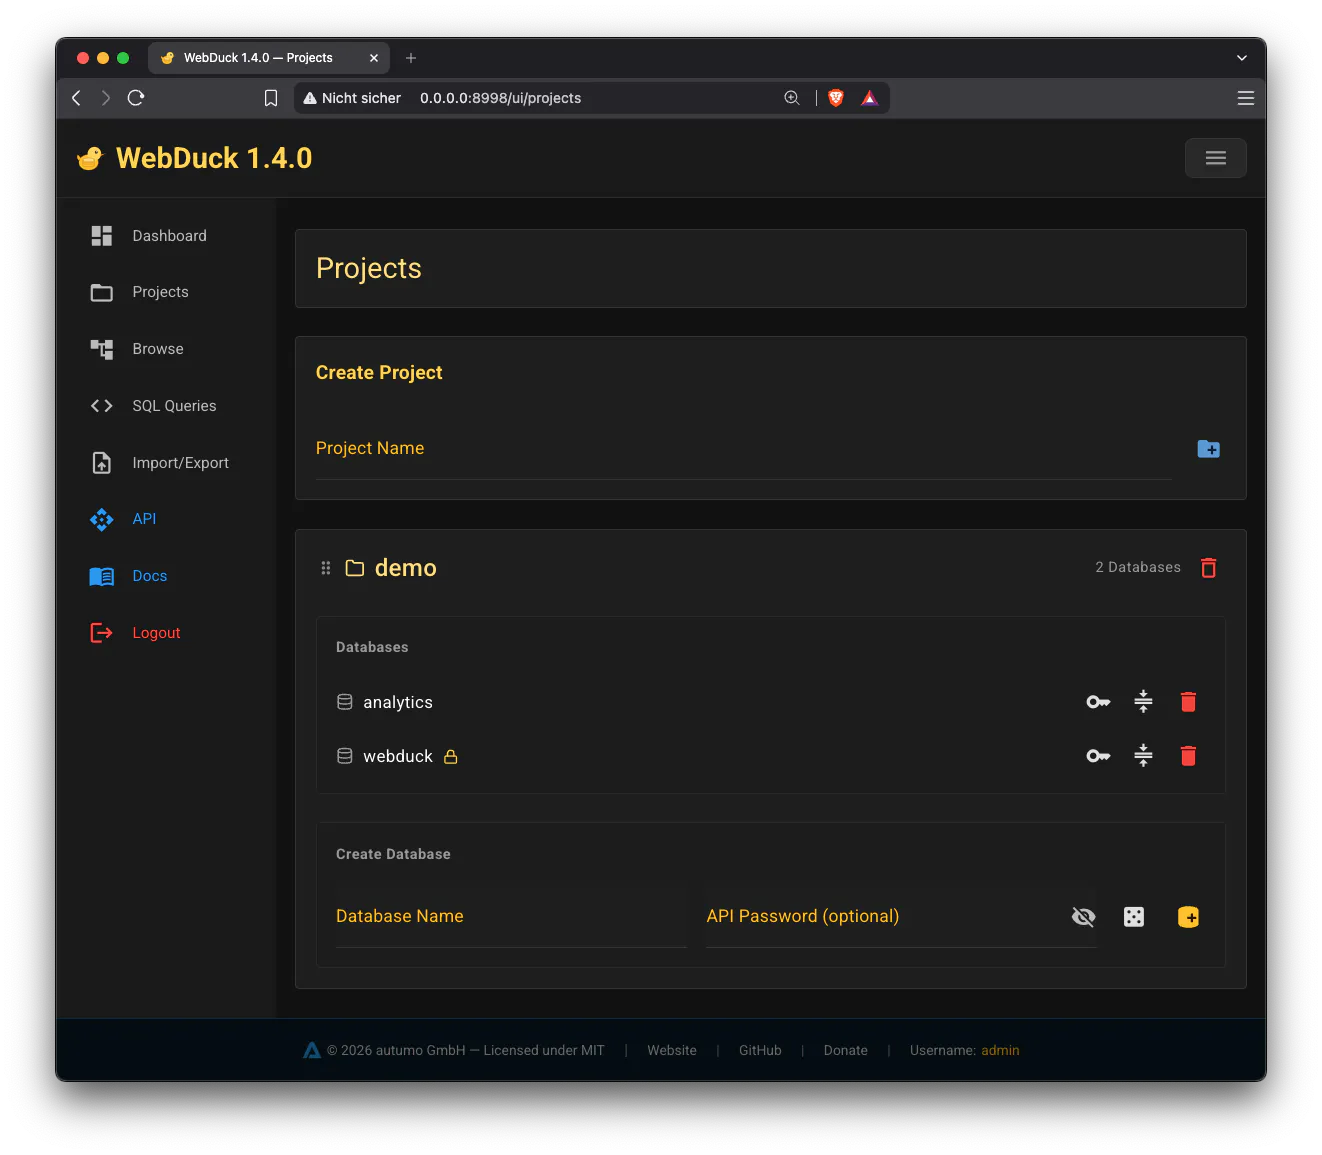
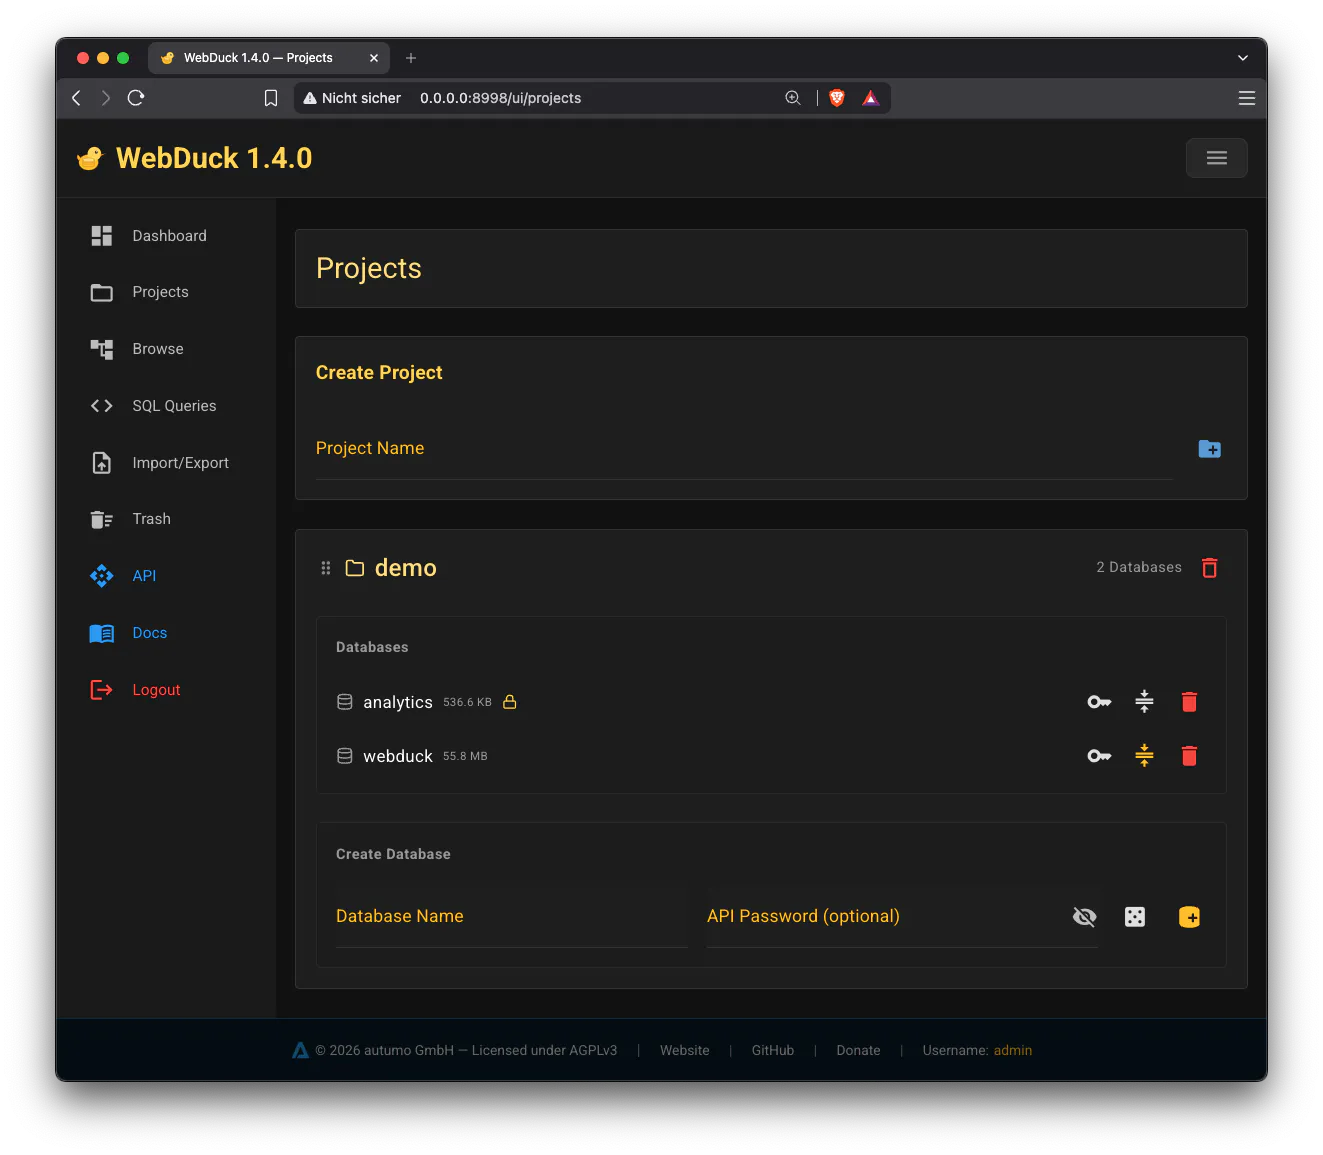
v1.4.0
- Projects/DBs: Remove password context menu
- New Screenshots

diff --git a/src/webduck/pages/projects.py b/src/webduck/pages/projects.py
@@ -329,22 +329,84 @@ def register():
                                                 "font-size: 0.75em;"
                                             )
                                         # Show a lock icon if this database has an API password set.
+                                        # Left-click opens a menu with the option to remove the
+                                        # password again (backed by a security confirmation).
                                         _pa = ctx.project_auth or ProjectAuth(ctx.storage.data_dir)
                                         has_pw = _pa.has_database_password(
                                             project, db_name
                                         )
                                         if has_pw:
-                                            ui.html(
-                                                '<svg width="14" height="14" viewBox="0 0 24 24" '
-                                                'fill="none" stroke="#FFD54F" stroke-width="2" '
-                                                'stroke-linecap="round" stroke-linejoin="round" '
-                                                'style="vertical-align: middle;">'
-                                                '<rect x="3" y="11" width="18" height="11" '
-                                                'rx="2" ry="2"/>'
-                                                '<path d="M7 11V7a5 5 0 0 1 10 0v4"/></svg>'
-                                            ).tooltip(_("password_set")).props(
-                                                "tooltip-position=top"
-                                            )
+                                            async def remove_pw_confirm(
+                                                p=project, d=db_name
+                                            ):
+                                                with ui.dialog() as dlg, ui.card().classes(
+                                                    "items-center gap-4"
+                                                ).style(
+                                                    "background: #1E1E1E; border-radius: 12px; "
+                                                    "padding: 24px 32px;"
+                                                ):
+                                                    ui.label(
+                                                        _("confirm_remove_password").format(d)
+                                                    ).style(f"color: {TEXT_SOFT}")
+                                                    with ui.row().classes("gap-2"):
+                                                        ui.button(
+                                                            _("cancel"),
+                                                            on_click=dlg.close,
+                                                        ).props("outline color=grey").classes(
+                                                            "border-button"
+                                                        )
+
+                                                        def do_remove():
+                                                            dlg.close()
+                                                            pa = (
+                                                                ctx.project_auth
+                                                                or ProjectAuth(
+                                                                    ctx.storage.data_dir
+                                                                )
+                                                            )
+                                                            if pa.remove_database_password(p, d):
+                                                                nicegui_app.storage.user["flash"] = _(
+                                                                    "password_removed"
+                                                                )
+                                                                ui.navigate.reload()
+                                                            else:
+                                                                ui.notify(
+                                                                    _("error"),
+                                                                    type="negative",
+                                                                )
+
+                                                        ui.button(
+                                                            _("remove_password"),
+                                                            on_click=do_remove,
+                                                        ).props("outline color=red").classes(
+                                                            "border-button"
+                                                        )
+                                                dlg.open()
+
+                                            with ui.element("div"):
+                                                ui.html(
+                                                    '<svg width="14" height="14" '
+                                                    'viewBox="0 0 24 24" fill="none" '
+                                                    'stroke="#FFD54F" stroke-width="2" '
+                                                    'stroke-linecap="round" stroke-linejoin="round" '
+                                                    'style="vertical-align: middle;">'
+                                                    '<rect x="3" y="11" width="18" height="11" '
+                                                    'rx="2" ry="2"/>'
+                                                    '<path d="M7 11V7a5 5 0 0 1 10 0v4"/></svg>'
+                                                )
+                                                with ui.menu():
+                                                    ui.menu_item(
+                                                        _("change_password"),
+                                                        on_click=lambda p=project, d=db_name: (
+                                                            change_db_password(p, d)
+                                                        ),
+                                                    )
+                                                    ui.menu_item(
+                                                        _("remove_password"),
+                                                        on_click=lambda p=project, d=db_name: (
+                                                            remove_pw_confirm(p, d)
+                                                        ),
+                                                    ).style("color: #F44336;")
                                         ui.space()
 
                                         # Password change dialog: generate or set a new API password.

diff --git a/README.md b/README.md
@@ -42,6 +42,9 @@
 
 <table>
 <tr>
+<td colspan="2" align="center"><strong>Dashboard</strong><br><a href="https://raw.githubusercontent.com/autumoswitzerland/Webduck/refs/heads/master/src/webduck/static/screen_dashboard.webp"><img src="https://raw.githubusercontent.com/autumoswitzerland/Webduck/refs/heads/master/src/webduck/static/screen_dashboard.webp" width="700"></a></td>
+</tr>
+<tr>
 <td align="center"><strong>Projects</strong><br><a href="https://raw.githubusercontent.com/autumoswitzerland/Webduck/refs/heads/master/src/webduck/static/screen_projects.webp"><img src="https://raw.githubusercontent.com/autumoswitzerland/Webduck/refs/heads/master/src/webduck/static/screen_projects.webp" width="450"></a></td>
 <td align="center"><strong>Browse View</strong><br><a href="https://raw.githubusercontent.com/autumoswitzerland/Webduck/refs/heads/master/src/webduck/static/screen_browse.webp"><img src="https://raw.githubusercontent.com/autumoswitzerland/Webduck/refs/heads/master/src/webduck/static/screen_browse.webp" width="450"></a></td>
 </tr>
